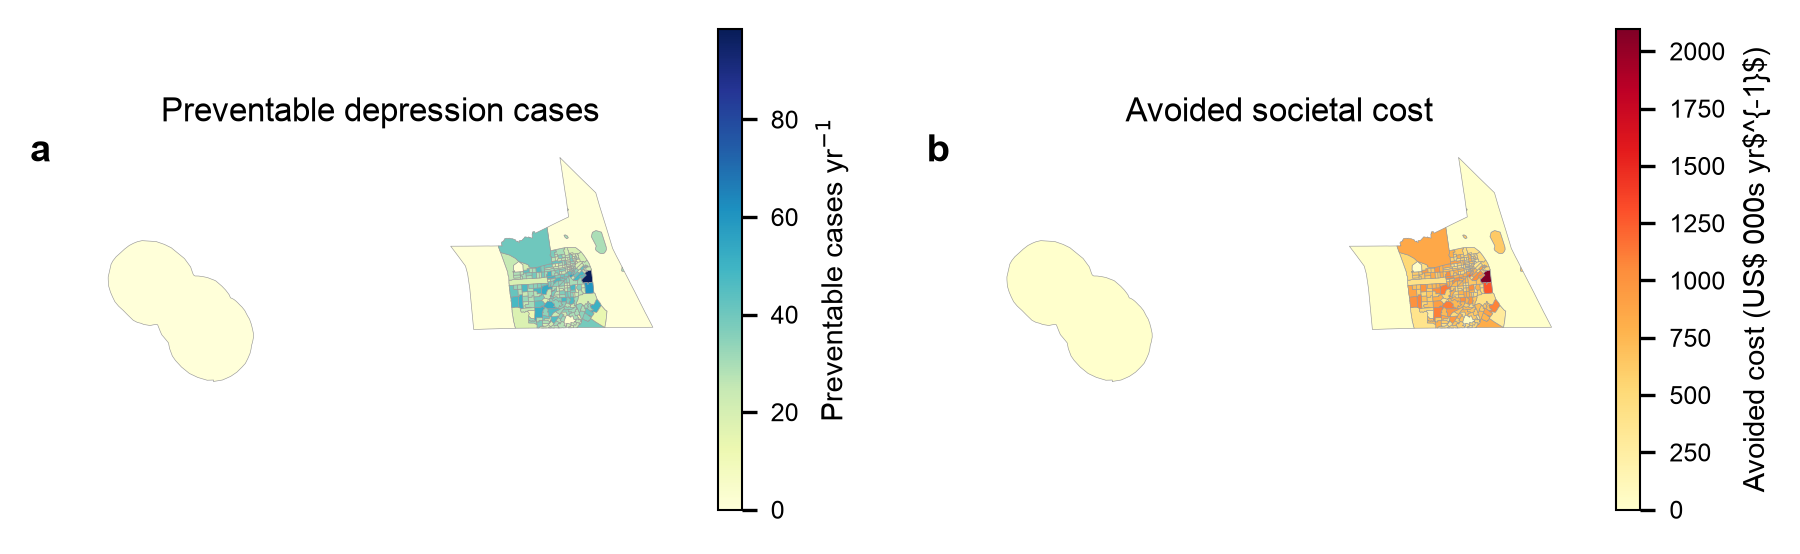
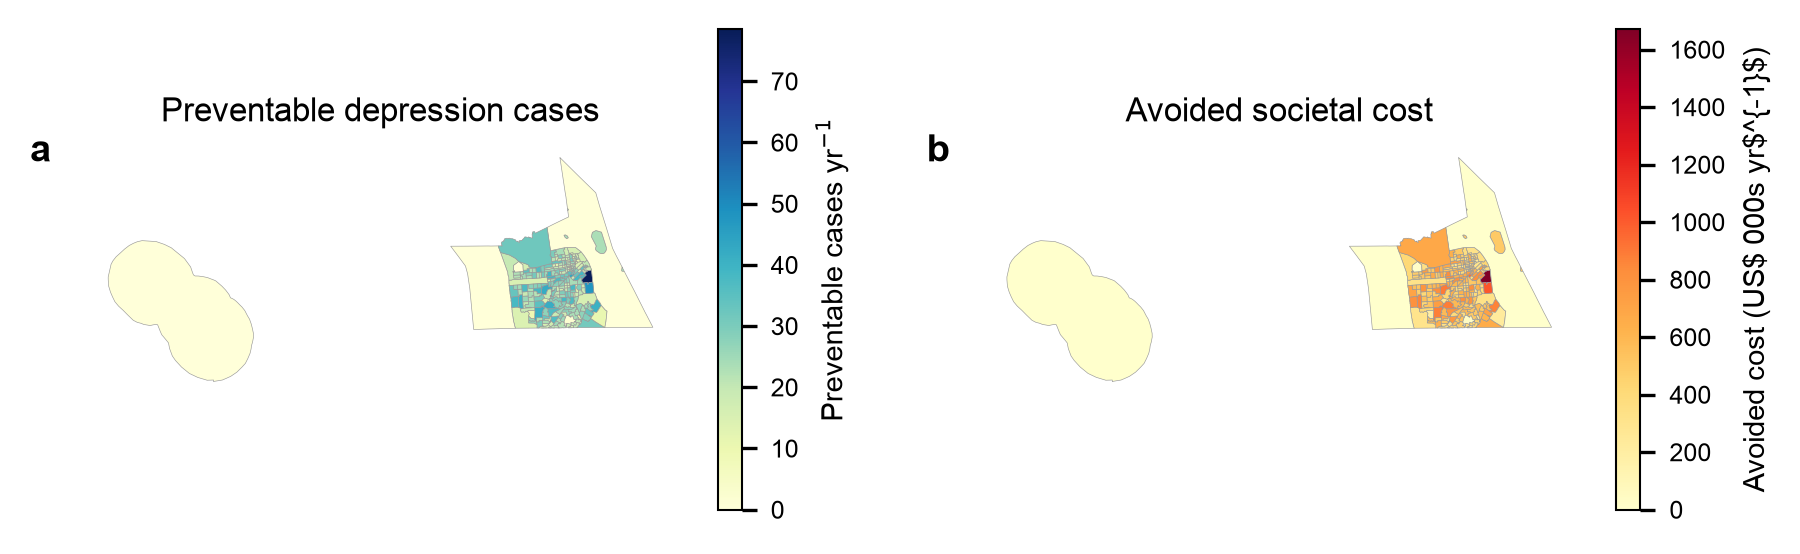
SF re-run: corrected population, p0, RR; refreshed results + figures

diff --git a/results/summaries/results_summary.md b/results/summaries/results_summary.md
@@ -1,13 +1,13 @@
 # Model results summary (SF)
 
-_Generated 2026-07-12 from `preventable_cases_cost_sum_sf_2024.csv`._
+_Generated 2026-07-13 from `preventable_cases_cost_sum_sf_2024.csv`._
 
 ## Headline
 
-- Preventable depression cases/year: **7,294**
-- Avoided societal cost/year: **$155,219,528**
+- Preventable depression cases/year: **5,814**
+- Avoided societal cost/year: **$123,720,361**
 - Tracts analyzed: **244**
-- Per-tract cases: mean 29.9, median 29.0, min 0.0, max 98.5
+- Per-tract cases: mean 23.8, median 23.1, min 0.0, max 78.5
 
 ## QA checks
 
@@ -15,12 +15,33 @@ _Generated 2026-07-12 from `preventable_cases_cost_sum_sf_2024.csv`._
 - Reminder: baseline cases should use ADULT population (prevalence is adult); if population wasn't adult-scaled, totals are overstated ~20%.
 - Greening scenario and effect size are assumptions — read with the sensitivity range below, not as point truth.
 
+## Two counterfactuals
+
+Two distinct questions, reported side by side:
+
+- **Marginal greening** (current NDVI -> +scenario): **5,814** preventable cases/yr, **$123,720,361**/yr.
+- **Total value of existing greenness** (bare NDVI=0 -> current): **25,469** cases/yr already averted, **$541,976,264**/yr.
+
+The first is the benefit of *adding* greenness (policy-relevant marginal effect); the second is an ecosystem-service accounting of greenness already present. The NDVI=0 figure extrapolates the exposure-response well beyond observed data, so treat it as an upper-bound accounting number, not a prediction of what removing all vegetation would do.
+
 ## Sensitivity (effect_size × cost)
 
 | effect_size | preventable_cases | cost_low | cost_central | cost_high |
 |---|---:|---:|---:|---:|
-| 0.887 | 11,912 | $0 | $0 | $0 |
-| 0.93 | 7,294 | $0 | $0 | $0 |
-| 0.977 | 2,368 | $0 | $0 | $0 |
+| 0.908 | 9,643 | $0 | $0 | $0 |
+| 0.944 | 5,814 | $0 | $0 | $0 |
+| 0.982 | 1,851 | $0 | $0 | $0 |
+
+## p0 sensitivity (OR->RR conversion)
+
+Baseline risk p0 used: **0.204** (population-weighted PLACES prevalence); central OR 0.931 -> RR 0.9443. The RR is nearly flat in p0, but preventable cases scale with -ln(RR), so they move ~±6% per 0.05 change in p0 — hence pinning p0 to the data (compute_p0.py):
+
+| p0 | RR | approx. preventable cases |
+|---:|---:|---:|
+| 0.10 | 0.9375 | 6,550 |
+| 0.15 | 0.9407 | 6,197 |
+| 0.20 | 0.9440 | 5,842 |
+| 0.25 | 0.9473 | 5,487 |
+| 0.30 | 0.9507 | 5,130 |
 
 ![Preventable cases per tract](../figures/preventable_cases_map.png)

diff --git a/results/tables/Table2_results_summary.md b/results/tables/Table2_results_summary.md
@@ -2,6 +2,6 @@
 
 | Metric | Value |
 |---|---|
-| Preventable cases per year (central) | 7,294 |
-| Avoided societal cost per year (central) | US$155,219,528 |
-| Preventable cases range (effect-size sensitivity) | 2,368 – 11,912 |
+| Preventable cases per year (central) | 5,814 |
+| Avoided societal cost per year (central) | US$123,720,361 |
+| Preventable cases range (effect-size sensitivity) | 1,851 – 9,643 |

diff --git a/results/tables/Table1_data_sources.md b/results/tables/Table1_data_sources.md
@@ -6,6 +6,6 @@
 | Greening scenarios | LULC-masked / canopy-target / greenable | NLCD Land Cover + TCC | 2021/2024 |
 | AOI + population units | Census tracts; WorldPop adult population 100 m | Census TIGER; WorldPop R2025A | 2024 |
 | Depression prevalence | CDC PLACES crude prevalence (risk_rate) | CDC PLACES | 2021 |
-| Effect size | RR 0.93 per +0.1 NDVI (0.887-0.977) | Liu et al. 2023 (Environ. Res.) | 2023 |
+| Effect size | RR 0.944 per +0.1 NDVI (0.908-0.982); converted from OR 0.931 | Liu et al. 2023 (Environ. Res.) | 2023 |
 | Societal cost / case | US$21,280 (range 17,000-23,000) | Greenberg 2018/2019; Konig 2019 meta-analysis | 2024 USD |
 | Model | InVEST Urban Mental Health | natcap.invest >=3.19 | - |